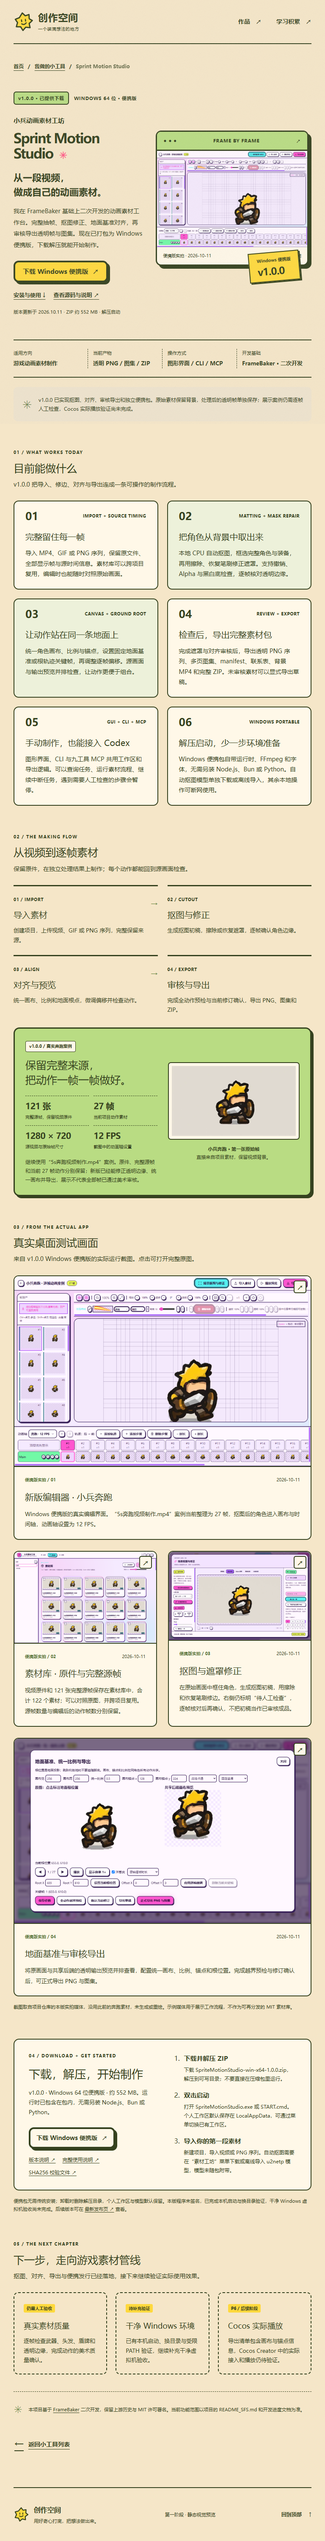
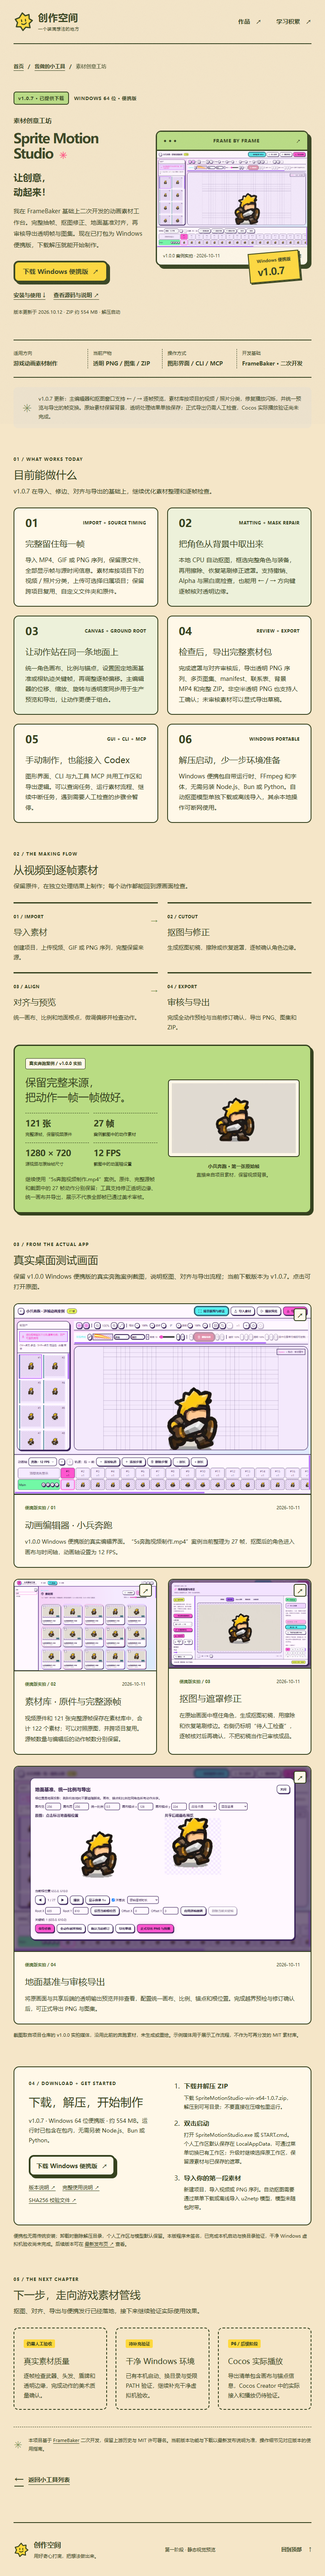
feat: update creative studio showcase and downloads to v1.0.7

Changed region(s): [[0.0312, 0.0, 0.9688, 0.967], [0.5, 0.1872, 0.9688, 0.4679], [0.6875, 0.9046, 0.9062, 0.9358]]

diff --git a/app/tools/sprint-motion-studio/page.tsx b/app/tools/sprint-motion-studio/page.tsx
@@ -11,15 +11,15 @@ const repo = studioRelease.repoUrl;
 const assetRoot = publicAsset("/images/tools/sprint-motion-studio");
 
 export const metadata: Metadata = {
-  title: "Sprint Motion Studio · 小兵动画素材工坊 | 创作空间",
-  description: "下载 Sprint Motion Studio 1.0.0 Windows 便携版，查看完整抽帧、抠图修正、地面基准对齐、审核导出、CLI / MCP 互通和真实小兵奔跑案例。",
+  title: "Sprite Motion Studio · 素材创意工坊 | 创作空间",
+  description: "下载 Sprite Motion Studio 1.0.7 Windows 便携版，查看完整抽帧、抠图修正、地面基准对齐、审核导出、CLI / MCP 互通和真实小兵奔跑案例。",
 };
 
 const capabilities = [
-  { number: "01", title: "完整留住每一帧", text: "导入 MP4、GIF 或 PNG 序列，保留原文件、全部显示帧与源时间信息。素材库可以跨项目复用，编辑时也能随时对照原始画面。", tag: "IMPORT + SOURCE TIMING" },
-  { number: "02", title: "把角色从背景中取出来", text: "本地 CPU 自动抠图，框选完整角色与装备，再用擦除、恢复笔刷修正遮罩。支持撤销、Alpha 与黑白底检查，逐帧核对透明边缘。", tag: "MATTING + MASK REPAIR" },
-  { number: "03", title: "让动作站在同一条地面上", text: "统一角色画布、比例与锚点，设置固定地面基准或根轨迹关键帧，再调整逐帧偏移。源画面与输出预览并排检查，让动作更便于组合。", tag: "CANVAS + GROUND ROOT" },
-  { number: "04", title: "检查后，导出完整素材包", text: "完成遮罩与对齐审核后，导出透明 PNG 序列、多页图集、manifest、联系表、背景 MP4 和完整 ZIP。未审核素材可以显式导出草稿。", tag: "REVIEW + EXPORT" },
+  { number: "01", title: "完整留住每一帧", text: "导入 MP4、GIF 或 PNG 序列，保留原文件、全部显示帧与源时间信息。素材库按项目下的视频 / 照片分类，上传可选择归属项目；保留跨项目复用、自定义文件夹和原件。", tag: "IMPORT + SOURCE TIMING" },
+  { number: "02", title: "把角色从背景中取出来", text: "本地 CPU 自动抠图，框选完整角色与装备，再用擦除、恢复笔刷修正遮罩。支持撤销、Alpha 与黑白底检查，也能用 ← / → 方向键逐帧核对透明边缘。", tag: "MATTING + MASK REPAIR" },
+  { number: "03", title: "让动作站在同一条地面上", text: "统一角色画布、比例与锚点，设置固定地面基准或根轨迹关键帧，再调整逐帧偏移。主编辑器的位移、缩放、旋转与透明度同步用于生产预览和导出，让动作更便于组合。", tag: "CANVAS + GROUND ROOT" },
+  { number: "04", title: "检查后，导出完整素材包", text: "完成遮罩与对齐审核后，导出透明 PNG 序列、多页图集、manifest、联系表、背景 MP4 和完整 ZIP。非空半透明 PNG 也支持人工确认；未审核素材可以显式导出草稿。", tag: "REVIEW + EXPORT" },
   { number: "05", title: "手动制作，也能接入 Codex", text: "图形界面、CLI 与九工具 MCP 共用工作区和导出逻辑。可以查询任务、运行素材流程、继续中断任务，遇到需要人工检查的步骤会暂停。", tag: "GUI + CLI + MCP" },
   { number: "06", title: "解压启动，少一步环境准备", text: "Windows 便携包自带运行时、FFmpeg 和字体，无需另装 Node.js、Bun 或 Python。自动抠图模型单独下载或离线导入，其余本地操作可断网使用。", tag: "WINDOWS PORTABLE" },
 ];
@@ -32,7 +32,7 @@ const workflow = [
 ];
 
 const screenshots = [
-  { file: "v1-editor.png", title: "新版编辑器 · 小兵奔跑", text: "Windows 便携版的真实编辑界面。“5s奔跑视频制作.mp4”案例当前整理为 27 帧，抠图后的角色进入画布与时间轴，动画轴设置为 12 FPS。", alt: "Sprint Motion Studio 1.0.0实拍编辑器：27帧小兵奔跑角色、透明画布及12 FPS动画轴", height: 861 },
+  { file: "v1-editor.png", title: "动画编辑器 · 小兵奔跑", text: "v1.0.0 Windows 便携版的真实编辑界面。“5s奔跑视频制作.mp4”案例当前整理为 27 帧，抠图后的角色进入画布与时间轴，动画轴设置为 12 FPS。", alt: "Sprint Motion Studio 1.0.0实拍编辑器：27帧小兵奔跑角色、透明画布及12 FPS动画轴", height: 861 },
   { file: "v1-library.png", title: "素材库 · 原件与完整源帧", text: "视频原件和 121 张完整源帧保存在素材库中，合计 122 个素材；可以对照原图，并跨项目复用。源帧数量与编辑后的动作帧数分别保留。", alt: "新版素材库显示122个素材，包含原视频与完整抽取的小兵奔跑源帧", height: 861 },
   { file: "v1-mask-workshop.png", title: "抠图与遮罩修正", text: "在原始画面中框住角色，生成抠图初稿，用擦除和恢复笔刷修边。右侧仍标明“待人工检查”，逐帧核对后再确认，不把初稿当作已审核成品。", alt: "场景抠图与修正窗口，展示原始角色、框选、擦除恢复笔刷及待人工检查状态", height: 835 },
   { file: "v1-alignment-workshop.png", title: "地面基准与审核导出", text: "将原画面与共享后端的透明输出预览并排查看，配置统一画布、比例、锚点和根位置。完成越界预检与修订确认后，可正式导出 PNG 与图集。", alt: "地面基准统一比例与导出窗口，展示画布参数、地面根位置、透明预览以及正式导出入口", height: 835 },
@@ -47,28 +47,28 @@ export default function SprintMotionStudioPage() {
         <nav className="breadcrumb" aria-label="面包屑">
           <Link prefetch={false} href="/">首页</Link><span aria-hidden="true">/</span>
           <Link prefetch={false} href="/tools/">我做的小工具</Link><span aria-hidden="true">/</span>
-          <span aria-current="page">Sprint Motion Studio</span>
+          <span aria-current="page">素材创意工坊</span>
         </nav>
 
         <article>
           <header className={styles.hero}>
             <div className={styles.heroCopy}>
               <div className={styles.labels}><span>v{studioRelease.version} · 已提供下载</span><span>WINDOWS 64 位 · 便携版</span></div>
-              <p className={styles.chineseTitle}>小兵动画素材工坊</p>
-              <h1>Sprint Motion<br /><span>Studio</span><span className={styles.spark} aria-hidden="true">✳</span></h1>
-              <p className={styles.tagline}>从一段视频，<br />做成自己的动画素材。</p>
+              <p className={styles.chineseTitle}>素材创意工坊</p>
+              <h1>Sprite Motion<br /><span>Studio</span><span className={styles.spark} aria-hidden="true">✳</span></h1>
+              <p className={styles.tagline}>让创意，<br />动起来！</p>
               <p className={styles.intro}>我在 FrameBaker 基础上二次开发的动画素材工作台。完整抽帧、抠图修正、地面基准对齐，再审核导出透明帧与图集。现在已打包为 Windows 便携版，下载解压就能开始制作。</p>
               <div className={styles.actions}>
                 <a className="candy-button candy-button--primary" href={studioRelease.downloadUrl} target="_blank" rel="noopener noreferrer">下载 Windows 便携版 <span aria-hidden="true">↗</span><span className="sr-only">（新标签页打开）</span></a>
                 <a className={styles.textLink} href="#getting-started">安装与使用 <span aria-hidden="true">↓</span></a>
                 <a className={styles.textLink} href={repo} target="_blank" rel="noopener noreferrer">查看源码与说明 <span aria-hidden="true">↗</span><span className="sr-only">（新标签页打开）</span></a>
               </div>
-              <p className={styles.updated}>版本更新于 <time dateTime={studioRelease.publishedDate}>2026.10.11</time> · ZIP 约 552 MB · 解压启动</p>
+              <p className={styles.updated}>版本更新于 <time dateTime={studioRelease.publishedDate}>2026.10.12</time> · ZIP 约 554 MB · 解压启动</p>
             </div>
             <figure className={styles.heroVisual}>
               <div className={styles.windowBar}><span aria-hidden="true">● ● ●</span><span>FRAME BY FRAME</span><span aria-hidden="true">↗</span></div>
               <Image src={`${assetRoot}/v1-editor.png`} alt="Sprint Motion Studio 1.0.0便携版真实界面，展示27帧抠图小兵奔跑案例" width={1344} height={861} unoptimized loading="eager" />
-              <figcaption><span>便携版实拍 · 2026-10-11</span><span>小兵奔跑 / 27 帧</span></figcaption>
+              <figcaption><span>v1.0.0 案例实拍 · 2026-10-11</span><span>小兵奔跑 / 27 帧</span></figcaption>
               <div className={styles.sticker}><span>Windows 便携版</span><strong>v{studioRelease.version}</strong></div>
             </figure>
           </header>
@@ -80,10 +80,10 @@ export default function SprintMotionStudioPage() {
             <div><dt>开发基础</dt><dd>FrameBaker · 二次开发</dd></div>
           </dl>
 
-          <aside id="scope-note" className={styles.scopeNote}><span aria-hidden="true">✳</span><p>v1.0.0 已实现抠图、对齐、审核导出和独立便携包。原始素材保留背景，处理后的透明帧单独保存；展示案例仍需逐帧人工检查，Cocos 实际播放验证尚未完成。</p></aside>
+          <aside id="scope-note" className={styles.scopeNote}><span aria-hidden="true">✳</span><p>v1.0.7 更新：主编辑器和抠图窗口支持 ← / → 逐帧预览，素材库按项目的视频 / 照片分类，修复播放闪烁，并统一预览与导出的帧变换。原始素材保留背景，透明处理结果单独保存；正式导出仍需人工检查，Cocos 实际播放验证尚未完成。</p></aside>
 
           <section id="capabilities" className={styles.section} aria-labelledby="capabilities-title">
-            <div className={styles.sectionHeading}><span className="section-kicker">01 / WHAT WORKS TODAY</span><h2 id="capabilities-title">目前能做什么</h2><p>v1.0.0 把导入、修边、对齐与导出连成一条可操作的制作流程。</p></div>
+            <div className={styles.sectionHeading}><span className="section-kicker">01 / WHAT WORKS TODAY</span><h2 id="capabilities-title">目前能做什么</h2><p>v1.0.7 在导入、修边、对齐与导出的基础上，继续优化素材整理和逐帧检查。</p></div>
             <div className={styles.capabilities}>{capabilities.map((item) => <div className={styles.capability} key={item.number}><div className={styles.cardTop}><span>{item.number}</span><span>{item.tag}</span></div><h3>{item.title}</h3><p>{item.text}</p></div>)}</div>
           </section>
 
@@ -91,24 +91,24 @@ export default function SprintMotionStudioPage() {
             <div className={styles.sectionHeading}><span className="section-kicker">02 / THE MAKING FLOW</span><h2 id="workflow-title">从视频到逐帧素材</h2><p>保留原件，在独立处理结果上制作；每个动作都能回到源画面检查。</p></div>
             <ol className={styles.workflow}>{workflow.map((step) => <li key={step.hint}><span>{step.hint}</span><h3>{step.title}</h3><p>{step.text}</p></li>)}</ol>
             <div className={styles.evidence}>
-              <div className={styles.evidenceCopy}><span className={styles.badge}>v1.0.0 / 真实奔跑案例</span><h3>保留完整来源，<br />把动作一帧一帧做好。</h3><div className={styles.frameCounts}><span><strong>121 张</strong><small>完整源帧，保留视频原件</small></span><span><strong>27 帧</strong><small>当前项目动作素材</small></span><span><strong>1280 × 720</strong><small>源视频与原始帧尺寸</small></span><span><strong>12 FPS</strong><small>截图中的动画轴设置</small></span></div><p>继续使用“5s奔跑视频制作.mp4”案例。原件、完整源帧和当前 27 帧动作分别保留；新版已经能修正透明边缘、统一画布并导出，展示不代表全部帧已通过美术审核。</p></div>
+              <div className={styles.evidenceCopy}><span className={styles.badge}>真实奔跑案例 / v1.0.0 实拍</span><h3>保留完整来源，<br />把动作一帧一帧做好。</h3><div className={styles.frameCounts}><span><strong>121 张</strong><small>完整源帧，保留视频原件</small></span><span><strong>27 帧</strong><small>案例截图中的动作素材</small></span><span><strong>1280 × 720</strong><small>源视频与原始帧尺寸</small></span><span><strong>12 FPS</strong><small>截图中的动画轴设置</small></span></div><p>继续使用“5s奔跑视频制作.mp4”案例。原件、完整源帧和截图中的 27 帧动作分别保留；工具支持修正透明边缘、统一画布并导出，展示不代表全部帧已通过美术审核。</p></div>
               <figure className={styles.contactSheet}><a href={`${assetRoot}/test-project-source-frame.png`} target="_blank" rel="noopener noreferrer" aria-label="打开小兵奔跑原始帧原图（新标签页）"><Image src={`${assetRoot}/test-project-source-frame.png`} alt="5s奔跑视频制作素材的第一张原始PNG，浅色背景上是一名持剑盾的金发小兵" width={1280} height={720} unoptimized /></a><figcaption>小兵奔跑 · 第一张原始帧<br /><span>直接来自项目素材，保留视频背景。</span></figcaption></figure>
             </div>
           </section>
 
           <section id="screenshots" className={styles.section} aria-labelledby="screenshots-title">
-            <div className={styles.sectionHeading}><span className="section-kicker">03 / FROM THE ACTUAL APP</span><h2 id="screenshots-title">真实桌面测试画面</h2><p>来自 v1.0.0 Windows 便携版的实际运行截图。点击可打开完整原图。</p></div>
+            <div className={styles.sectionHeading}><span className="section-kicker">03 / FROM THE ACTUAL APP</span><h2 id="screenshots-title">真实桌面测试画面</h2><p>保留 v1.0.0 Windows 便携版的真实奔跑案例截图，说明抠图、对齐与导出流程；当前下载版本为 v1.0.7。点击可打开原图。</p></div>
             <div className={styles.gallery}>{screenshots.map((shot, index) => <figure className={styles.screenshot} key={shot.file}>
               <a href={`${assetRoot}/${shot.file}`} target="_blank" rel="noopener noreferrer" aria-label={`打开${shot.title}原图（新标签页）`}><Image src={`${assetRoot}/${shot.file}`} alt={shot.alt} width={1344} height={shot.height} unoptimized /><span className={styles.expand} aria-hidden="true">↗</span></a>
               <figcaption><div className={styles.shotMeta}><span>便携版实拍 / 0{index + 1}</span><time dateTime="2026-10-11">2026-10-11</time></div><h3>{shot.title}</h3><p>{shot.text}</p></figcaption>
             </figure>)}</div>
-            <p className={styles.captionNote}>截图取自项目仓库的本版实拍媒体，沿用此前的奔跑素材，未生成或重绘。示例媒体用于展示工作流程，不作为可再分发的 MIT 素材库。</p>
+            <p className={styles.captionNote}>截图取自项目仓库的 v1.0.0 实拍媒体，沿用此前的奔跑素材，未生成或重绘。示例媒体用于展示工作流程，不作为可再分发的 MIT 素材库。</p>
           </section>
 
           <section id="getting-started" className={styles.section} aria-labelledby="getting-started-title">
             <div className={styles.startPanel}>
-              <div><span className="section-kicker">04 / DOWNLOAD + GET STARTED</span><h2 id="getting-started-title">下载，解压，开始制作</h2><p>v{studioRelease.version} · Windows 64 位便携版 · 约 552 MB。运行时已包含在包内，无需另装 Node.js、Bun 或 Python。</p><a className="candy-button candy-button--secondary" href={studioRelease.downloadUrl} target="_blank" rel="noopener noreferrer">下载 Windows 便携版 <span aria-hidden="true">↗</span><span className="sr-only">（新标签页打开）</span></a><div className={styles.downloadLinks}><a href={studioRelease.releaseUrl} target="_blank" rel="noopener noreferrer">版本说明 ↗</a><a href={studioRelease.guideUrl} target="_blank" rel="noopener noreferrer">完整使用说明 ↗</a><a href={studioRelease.checksumUrl} target="_blank" rel="noopener noreferrer">SHA256 校验文件 ↗</a></div></div>
-              <ol><li><strong>下载并解压 ZIP</strong><span>下载 {studioRelease.archiveName}，解压到可写目录；不要直接在压缩包里运行。</span></li><li><strong>双击启动</strong><span>打开 SpriteMotionStudio.exe 或 START.cmd。个人工作区默认保存在 LocalAppData，可通过菜单切换已有工作区。</span></li><li><strong>导入你的第一段素材</strong><span>新建项目，导入视频或 PNG 序列。自动抠图需要在“素材工坊”菜单下载或离线导入 u2netp 模型，模型未随包附带。</span></li></ol>
+              <div><span className="section-kicker">04 / DOWNLOAD + GET STARTED</span><h2 id="getting-started-title">下载，解压，开始制作</h2><p>v{studioRelease.version} · Windows 64 位便携版 · 约 554 MB。运行时已包含在包内，无需另装 Node.js、Bun 或 Python。</p><a className="candy-button candy-button--secondary" href={studioRelease.downloadUrl} target="_blank" rel="noopener noreferrer">下载 Windows 便携版 <span aria-hidden="true">↗</span><span className="sr-only">（新标签页打开）</span></a><div className={styles.downloadLinks}><a href={studioRelease.releaseUrl} target="_blank" rel="noopener noreferrer">版本说明 ↗</a><a href={studioRelease.guideUrl} target="_blank" rel="noopener noreferrer">完整使用说明 ↗</a><a href={studioRelease.checksumUrl} target="_blank" rel="noopener noreferrer">SHA256 校验文件 ↗</a></div></div>
+              <ol><li><strong>下载并解压 ZIP</strong><span>下载 {studioRelease.archiveName}，解压到可写目录；不要直接在压缩包里运行。</span></li><li><strong>双击启动</strong><span>打开 SpriteMotionStudio.exe 或 START.cmd。个人工作区默认保存在 LocalAppData，可通过菜单切换已有工作区；升级时继续选择原工作区，保留源素材与已保存的遮罩。</span></li><li><strong>导入你的第一段素材</strong><span>新建项目，导入视频或 PNG 序列。自动抠图需要通过菜单下载或离线导入 u2netp 模型，模型未随包附带。</span></li></ol>
             </div>
             <p className={styles.captionNote}>便携包无需传统安装；卸载时删除解压目录，个人工作区与模型默认保留。本版程序未签名，已完成本机启动与换目录验证，干净 Windows 虚拟机验收尚未完成。后续版本可在 <a href={studioRelease.latestUrl} target="_blank" rel="noopener noreferrer">最新发布页 ↗</a> 查看。</p>
           </section>
@@ -118,7 +118,7 @@ export default function SprintMotionStudioPage() {
             <div className={styles.roadmap}><div><span>仍需人工验收</span><h3>真实素材质量</h3><p>逐帧检查武器、头发、盾牌和透明边缘，完成动作的美术质量确认。</p></div><div><span>待补充验证</span><h3>干净 Windows 环境</h3><p>已有本机启动、换目录与受限 PATH 验证，继续补充干净虚拟机验收。</p></div><div><span>P6 / 后续阶段</span><h3>Cocos 实际播放</h3><p>导出清单包含画布与锚点信息，Cocos Creator 中的实际接入和播放仍待验证。</p></div></div>
           </section>
 
-          <aside className={styles.origin}><span aria-hidden="true">✳</span><p>本项目基于 <a href="https://github.com/taotao7/FrameBaker" target="_blank" rel="noopener noreferrer">FrameBaker<span className="sr-only">（新标签页打开）</span></a> 二次开发，保留上游历史与 MIT 许可署名。当前功能范围以项目的 README_SFS.md 和开发进度文档为准。</p></aside>
+          <aside className={styles.origin}><span aria-hidden="true">✳</span><p>本项目基于 <a href="https://github.com/taotao7/FrameBaker" target="_blank" rel="noopener noreferrer">FrameBaker<span className="sr-only">（新标签页打开）</span></a> 二次开发，保留上游历史与 MIT 许可署名。当前版本功能与下载以最新发布说明为准，操作细节见对应版本的使用指南。</p></aside>
         </article>
         <Link prefetch={false} className="back-to-works" href="/tools/"><span aria-hidden="true">←</span> 返回小工具列表</Link>
       </main>

diff --git a/data/projects.ts b/data/projects.ts
@@ -134,14 +134,14 @@ export const projects: Project[] = [{
   notice: "Windows 原生版已完成开发验证，微信小游戏与 Steam 发行仍在规划中。",
 }, {
   id: "sprint-motion-studio",
-  title: "Sprint Motion Studio",
-  subtitle: "小兵动画素材工坊",
+  title: "Sprite Motion Studio",
+  subtitle: "素材创意工坊",
   typeLabel: "动画素材工具",
   detailLabel: "查看工具介绍",
-  coverCaption: "v1.0.0 便携版 · 小兵奔跑实拍",
+  coverCaption: "小兵奔跑案例 · v1.0.0 实拍",
   category: "tools",
-  description: "从视频完整抽帧，到抠图修正、地面对齐与审核导出。Windows 便携版已提供下载，解压即可启动，也能通过 CLI / MCP 接入 Codex。",
-  status: "v1.0.0 · 可下载",
+  description: "从视频完整抽帧，到抠图修正、地面对齐与审核导出。新版支持方向键逐帧查看与项目素材分类；Windows 便携版下载解压即可使用。",
+  status: "v1.0.7 · 可下载",
   cover: {
     src: "/images/tools/sprint-motion-studio/v1-editor.png",
     alt: "Sprint Motion Studio 1.0.0便携版实拍：27帧抠图小兵、角色画布与动画时间轴",
@@ -152,7 +152,7 @@ export const projects: Project[] = [{
   links: [{ href: studioRelease.downloadUrl, label: "下载 Windows 便携版" }, { href: studioRelease.repoUrl, label: "查看源码与说明" }],
   isPlaceholder: false,
   published: true,
-  sourceVersion: "v1.0.0 · 2026-10-11",
+  sourceVersion: "v1.0.7 · 2026-10-12",
   requirements: ["Windows 64 位", "解压到可写目录", "自动抠图模型需另行下载或离线导入"],
   delivery: "Windows 便携 ZIP，解压后双击 SpriteMotionStudio.exe 或 START.cmd，无需另装开发环境。",
   features: [],

diff --git a/data/sprint-motion-studio.ts b/data/sprint-motion-studio.ts
@@ -1,12 +1,12 @@
 export const studioRelease = {
-  version: "1.0.0",
-  publishedDate: "2026-10-11",
+  version: "1.0.7",
+  publishedDate: "2026-10-12",
   repoUrl: "https://github.com/wzh20010805-boop/Sprint-Motion-Studio",
-  releaseUrl: "https://github.com/wzh20010805-boop/Sprint-Motion-Studio/releases/tag/v1.0.0",
+  releaseUrl: "https://github.com/wzh20010805-boop/Sprint-Motion-Studio/releases/tag/v1.0.7",
   latestUrl: "https://github.com/wzh20010805-boop/Sprint-Motion-Studio/releases/latest",
-  guideUrl: "https://github.com/wzh20010805-boop/Sprint-Motion-Studio/blob/v1.0.0/docs/p3-p5-guide.md",
-  archiveName: "SpriteMotionStudio-win-x64-1.0.0.zip",
-  sizeBytes: 552404998,
-  downloadUrl: "https://github.com/wzh20010805-boop/Sprint-Motion-Studio/releases/download/v1.0.0/SpriteMotionStudio-win-x64-1.0.0.zip",
-  checksumUrl: "https://github.com/wzh20010805-boop/Sprint-Motion-Studio/releases/download/v1.0.0/SpriteMotionStudio-win-x64-1.0.0.zip.sha256",
+  guideUrl: "https://github.com/wzh20010805-boop/Sprint-Motion-Studio/blob/v1.0.7/docs/p3-p5-guide.md",
+  archiveName: "SpriteMotionStudio-win-x64-1.0.7.zip",
+  sizeBytes: 554216275,
+  downloadUrl: "https://github.com/wzh20010805-boop/Sprint-Motion-Studio/releases/download/v1.0.7/SpriteMotionStudio-win-x64-1.0.7.zip",
+  checksumUrl: "https://github.com/wzh20010805-boop/Sprint-Motion-Studio/releases/download/v1.0.7/SpriteMotionStudio-win-x64-1.0.7.zip.sha256",
 } as const;

diff --git a/docs/sprint-motion-studio-showcase.md b/docs/sprint-motion-studio-showcase.md
@@ -1,4 +1,23 @@
-# Sprint Motion Studio v1.0.0 网页更新
+# 素材创意工坊 v1.0.7 网页更新
+
+更新时间：2026-10-12。沿用 `/tools/sprint-motion-studio/` 路由，保留现有导航和版式。
+
+## 本轮最新内容
+
+- 最新正式 Release：`v1.0.7`，2026-10-12 发布，非预发布。仓库 README 的安装段仍写 1.0.0，当前版本以 Release 为准。
+- 发布来源：https://github.com/wzh20010805-boop/Sprint-Motion-Studio/releases/tag/v1.0.7
+- 工具源码版本：`5f8c306ed8c7f236e85d25bd3f284bc978046d8a`，与本地工具 HEAD 一致。
+- 中文名更新为“素材创意工坊”，英文名按 Release 改为 Sprite Motion Studio。GitHub 仓库名和网站路由保留 Sprint，避免破坏旧入口。
+- 更新介绍：主编辑器与抠图窗口支持左右方向键逐帧预览；素材库按项目下的视频/照片分类；帧位移、缩放、旋转与透明度用于生产预览和导出；非空半透明 PNG 支持人工确认。发布说明还记录了播放闪烁和旧抠图任务问题修复。
+- Windows x64 便携包：`SpriteMotionStudio-win-x64-1.0.7.zip`，554216275 字节，页面标注约 554 MB。
+- 下载：https://github.com/wzh20010805-boop/Sprint-Motion-Studio/releases/download/v1.0.7/SpriteMotionStudio-win-x64-1.0.7.zip
[1 lines of base64/hex data omitted]
+- 解压后运行 SpriteMotionStudio.exe 或 START.cmd；运行时已附包，CPU 抠图模型仍需另行准备。升级时通过菜单继续选择原工作区，保留源素材和已保存遮罩。
+- 现有四张案例截图仍为 2026-10-11 的 v1.0.0 实拍。网页明确标记历史版本，保持源帧与案例帧数区分；没有伪造 v1.0.7 实拍。
+- 本轮不修改工具工程、用户工作区或网站的其他作品。下面保留上次版本更新的来源记录。
+
+## v1.0.0 历史更新记录
+
 
 更新时间：2026-10-11。详情路由：`/tools/sprint-motion-studio/`。
 

diff --git a/README.md b/README.md
@@ -45,7 +45,7 @@ python -m http.server 4174 --bind 127.0.0.1 --directory out
 | `/prompts/` | Prompt 推荐空状态 |
 | `/tools/` | 小工具作品卡片列表，目前 2 件作品 |
 | `/tools/pixel-cursor/` | 像素光标完整介绍、软件截图、功能、用法和下载须知 |
-| `/tools/sprint-motion-studio/` | 小兵动画素材工坊 v1.0.0 介绍、Windows 便携版下载、安装使用、实拍截图与后续验证 |
+| `/tools/sprint-motion-studio/` | 素材创意工坊 v1.0.7 介绍、Windows 便携版下载、安装使用、实拍截图与后续验证 |
 | `/games/` | 游戏作品卡片列表，目前 1 件作品 |
 | `/games/colony-roads/` | 微境节点战争的开发进度、制作流程原图与四张真实测试截图 |
 | `/skills/` | Skill 作品卡片列表，目前 1 件作品 |
